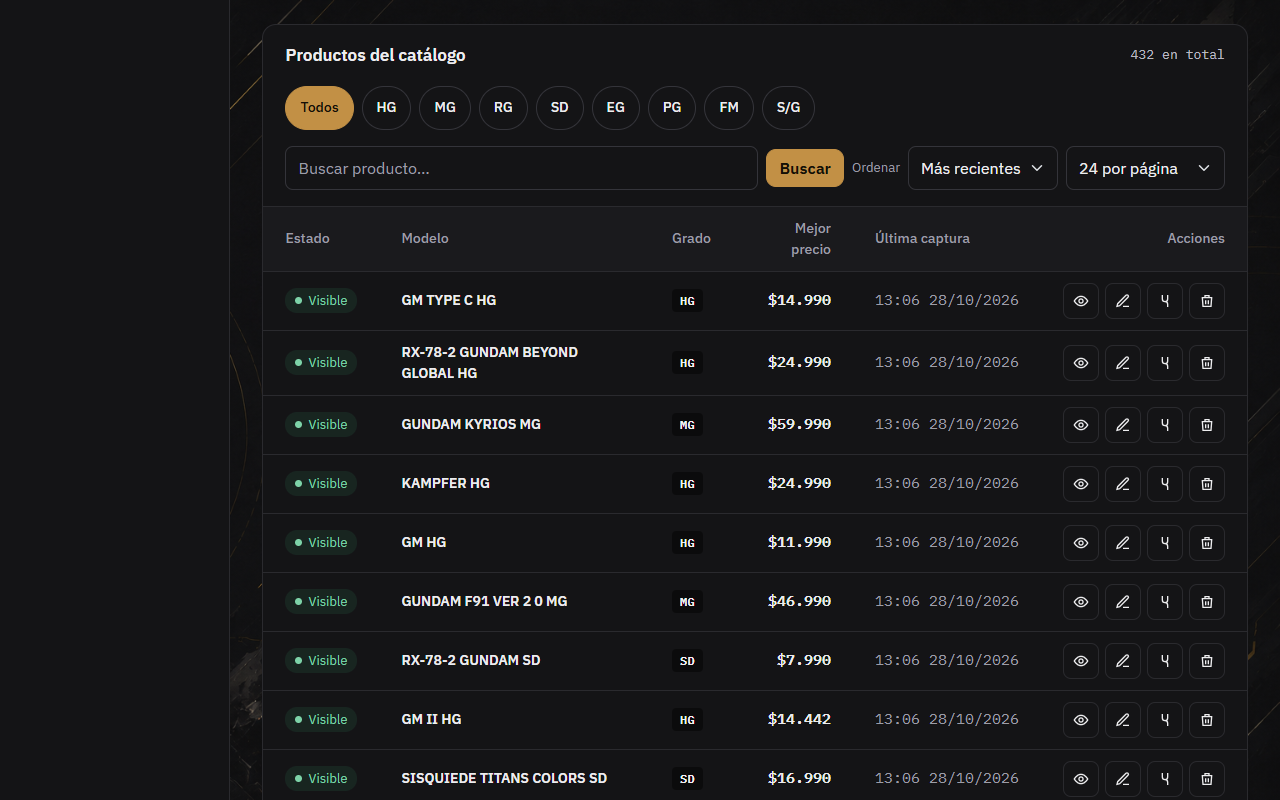
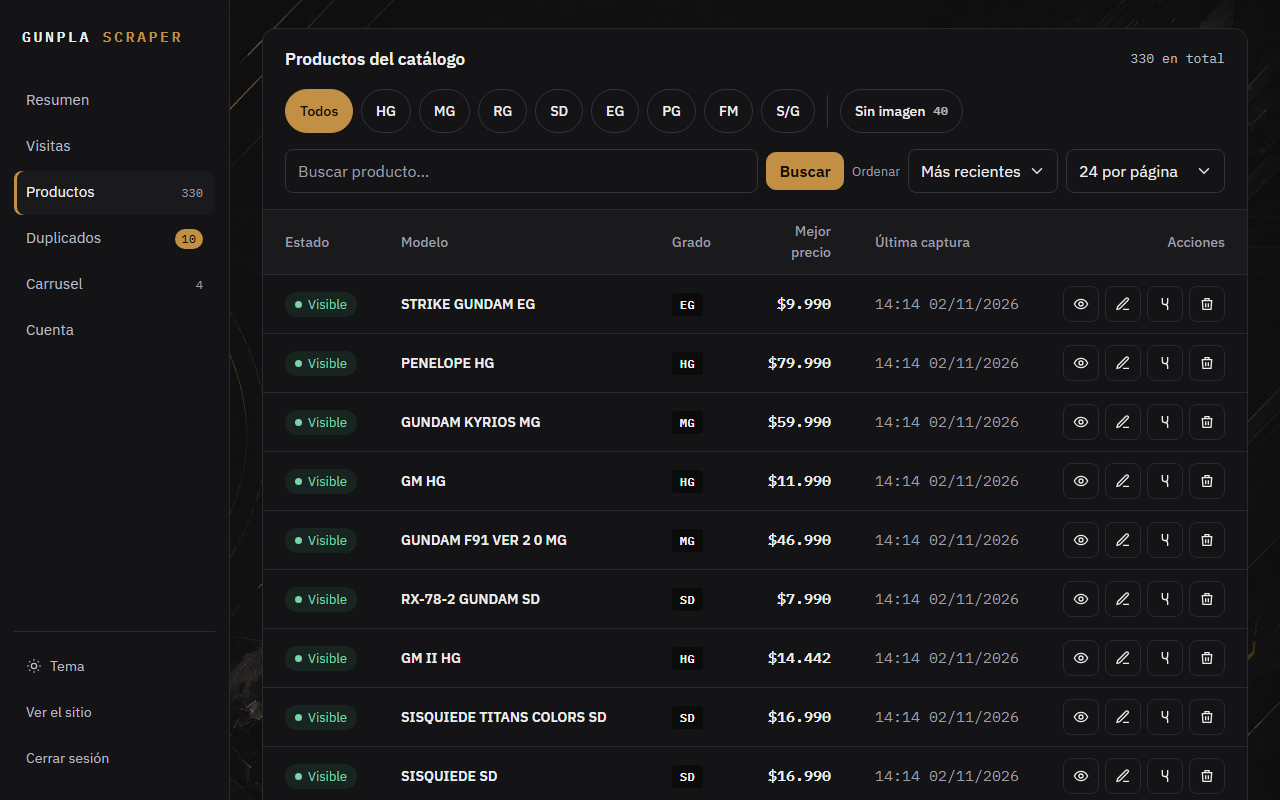
README y manual al día con el panel por pestañas; capturas nuevas del panel y sin el diagrama ER

diff --git a/static/js/producto.js b/static/js/producto.js
@@ -31,7 +31,7 @@ document.addEventListener('DOMContentLoaded', () => {
             maintainAspectRatio: false,
             interaction: { mode: 'index', intersect: false },
             plugins: {
-                legend: { position: 'top', align: 'start', labels: { usePointStyle: true, boxWidth: 8, font: { family: 'IBM Plex Sans' } } },
+                legend: { position: 'top', align: 'start', labels: { usePointStyle: true, pointStyle: 'circle', boxWidth: 8, boxHeight: 8, font: { family: 'IBM Plex Sans' } } },
                 tooltip: { callbacks: { label: (c) => ` ${c.dataset.label}: ${c.raw == null ? 'sin dato' : pesos(c.raw)}` } }
             },
             scales: {

diff --git a/static/js/visitas.js b/static/js/visitas.js
@@ -43,7 +43,7 @@ document.addEventListener('DOMContentLoaded', () => {
             maintainAspectRatio: false,
             interaction: { mode: 'index', intersect: false },
             plugins: {
-                legend: { position: 'top', align: 'start', labels: { usePointStyle: true, boxWidth: 8, font: { family: 'IBM Plex Sans' } } },
+                legend: { position: 'top', align: 'start', labels: { usePointStyle: true, pointStyle: 'circle', boxWidth: 8, boxHeight: 8, font: { family: 'IBM Plex Sans' } } },
                 tooltip: { callbacks: { label: (c) => ` ${c.dataset.label}: ${numero(c.raw)}` } }
             },
             scales: {

diff --git a/static/js/admin.js b/static/js/admin.js
@@ -17,6 +17,8 @@
     };
     window.addEventListener('hashchange', mostrar);
     mostrar();
+    // El navegador salta al #ancla por su cuenta al terminar de cargar: se vuelve a ajustar después de ese salto
+    window.addEventListener('load', () => setTimeout(mostrar));
 })();
 
 document.addEventListener('DOMContentLoaded', () => {

diff --git a/README.md b/README.md
@@ -34,31 +34,37 @@ Es una aplicación web en **Flask** con su propia base **SQLite**: no depende de
 
 ### Panel de administración
 
+El menú lateral muestra una sección a la vez y cada acción vuelve a la pestaña donde se hizo.
+
 <p align="center">
   <img src="docs/capturas/admin_login.png" width="420" alt="Pantalla de acceso al panel con la mascota del proyecto">
-  <img src="docs/capturas/admin_resumen.png" width="420" alt="Portada del panel: mascota, estado general, botones de escaneo, Excel y respaldo, y cifras del sitio">
+  <img src="docs/capturas/admin_resumen.png" width="420" alt="Resumen del panel: cifras del sitio, pendientes con acceso directo, visitas de la semana, vista previa del carrusel, estado de las tiendas y eventos">
 </p>
 <p align="center">
-  <img src="docs/capturas/admin_tiendas.png" width="420" alt="Estado de cada tienda, posibles duplicados, carrusel y eventos recientes">
-  <img src="docs/capturas/admin_carrusel.png" width="420" alt="Gestión del carrusel del inicio y registro de eventos">
+  <img src="docs/capturas/admin_visitas.png" width="420" alt="Gráfico de visitas y páginas vistas con filtros de período y agrupación, y totales de visitas, personas únicas y páginas vistas">
+  <img src="docs/capturas/admin.png" width="420" alt="Listado de productos del panel con filtros por grado y sin imagen, estado, mejor precio, última captura y acciones">
 </p>
 <p align="center">
-  <img src="docs/capturas/admin.png" width="420" alt="Listado de productos del panel con estado, mejor precio, última captura y acciones">
   <img src="docs/capturas/admin_fusion.png" width="420" alt="Ventana para fusionar un producto duplicado con el principal">
+  <img src="docs/capturas/admin_duplicados.png" width="420" alt="Posibles duplicados con su porcentaje de parecido y los botones para conservar uno o descartarlos">
 </p>
 <p align="center">
+  <img src="docs/capturas/admin_carrusel.png" width="420" alt="Carrusel del inicio con la posición de cada imagen, flechas para reordenarlas, enlace y subida de imágenes nuevas">
   <img src="docs/capturas/admin_editar.png" width="420" alt="Edición del nombre, grado e imagen de un modelo del catálogo">
 </p>
 
-- **Acceso:** usuario y contraseña. Al cambiarlos desde el panel, la contraseña se guarda como hash.
-- **Pestañas:** el menú lateral muestra una sección a la vez (Resumen, Visitas, Productos, Duplicados, Carrusel y Cuenta), y cada acción vuelve a su pestaña.
-- **Resumen:** visitas del mes, productos en catálogo, visibles con stock y último escaneo, con los botones para forzar un escaneo, exportar a Excel y descargar un respaldo de la base. Avisa si el último escaneo exitoso tiene más de 48 horas.
-- **Estado de las tiendas:** último escaneo exitoso, productos y último error de cada tienda; marca para revisar las que llevan más de 48 horas sin un escaneo exitoso o fallaron en el último intento.
-- **Posibles duplicados:** pares del mismo grado con nombres casi iguales, para fusionarlos o marcarlos como distintos.
-- **Carrusel:** imágenes del inicio con su enlace, en el orden que se elige con las flechas de cada una.
-- **Eventos:** registro de las últimas acciones y escaneos, junto al estado de las tiendas.
-- **Productos:** ordenados por estado (Visibles → No disponibles → Ocultos), con acciones para ocultar, editar, eliminar y fusionar.
+- **Acceso:** usuario y contraseña, con límite de intentos fallidos por IP y sesión que vence a las 8 horas sin uso. Al cambiarlos desde el panel, la contraseña se guarda como hash.
+- **Resumen:** visitas del mes, productos en catálogo, visibles con stock y último escaneo, con los botones para forzar un escaneo, exportar a Excel y descargar un respaldo de la base. Debajo:
+  - **Pendientes:** tiendas por revisar, posibles duplicados y productos sin imagen, cada uno con acceso directo a donde se resuelve.
+  - **Visitas:** los últimos 7 días comparados con los 7 anteriores y la tendencia de las últimas dos semanas.
+  - **Carrusel:** vista previa de las imágenes del inicio en su orden.
+  - **Estado de las tiendas:** último escaneo exitoso, productos y último error de cada tienda. Marca para revisar las que llevan más de 48 horas sin un escaneo exitoso o fallaron en el último intento.
+  - **Eventos recientes:** las últimas acciones del panel, escaneos, inicios de sesión y respaldos.
+- **Visitas:** gráfico de visitas y páginas vistas por día, semana o mes, con períodos de 7 días a todo el historial, y los totales de visitas, personas únicas y páginas vistas. No cuenta bots ni al administrador.
+- **Productos:** búsqueda, filtro por grado o sin imagen, orden y paginación. Ordenados por estado (Visibles → No disponibles → Ocultos), con acciones para ocultar, editar, eliminar y fusionar.
 - **Fusión:** pasa las tiendas y el historial de un duplicado al producto principal.
+- **Duplicados:** pares del mismo grado con nombres casi iguales, para fusionarlos o marcarlos como distintos.
+- **Carrusel:** imágenes del inicio con su enlace, en el orden que se elige con las flechas de cada una.
 - **Edición:** nombre estandarizado, grado e imagen de cada modelo.
 - **Cuenta:** cambio de usuario y contraseña del panel.
 
@@ -227,7 +233,6 @@ docs/
 ├── MANUAL-DESARROLLADOR.md  Arquitectura, flujos, seguridad, pruebas y operación
 ├── BASE-DE-DATOS.md         Tablas, columnas y procesos que modifican los datos
 ├── SCRAPERS.md              Flujo del scraping, normalización y cómo agregar una tienda
-├── ER_model.png             Diagrama entidad-relación completo
 └── capturas/                Imágenes de este README
 ```
 
@@ -240,4 +245,3 @@ Proyecto con fines educativos y de análisis personal. Los precios pueden no est
 - [Manual del desarrollador](docs/MANUAL-DESARROLLADOR.md): arquitectura, flujos, seguridad, pruebas, operación y cómo extender el proyecto
 - [Base de datos](docs/BASE-DE-DATOS.md)
 - [Scrapers](docs/SCRAPERS.md)
-- [Diagrama entidad-relación](docs/ER_model.png)

diff --git a/docs/MANUAL-DESARROLLADOR.md b/docs/MANUAL-DESARROLLADOR.md
@@ -35,7 +35,7 @@ Este manual explica cómo está construido el sistema, por qué se tomaron sus d
 Gunpla Scraper Chile recorre dos veces al día el catálogo de 8 tiendas chilenas, normaliza los nombres de los productos para agrupar las publicaciones de un mismo kit y guarda cada precio observado. Con eso ofrece:
 
 - **Sitio público:** catálogo con filtros, ficha por producto con el mejor precio del día, comparación entre tiendas, historial en gráfico y etiquetas de mínimo histórico y bajas recientes.
-- **Panel de administración:** estado de cada tienda, sugerencia y fusión de duplicados, edición del catálogo, imágenes, carrusel, exportación a Excel y respaldo de la base.
+- **Panel de administración:** organizado en pestañas (Resumen, Visitas, Productos, Duplicados, Carrusel y Cuenta): estado de cada tienda, pendientes, visitas sin bots, sugerencia y fusión de duplicados, edición del catálogo, imágenes, orden del carrusel, exportación a Excel y respaldo de la base.
 
 Funciona como **un solo proceso** sin servicios externos: Flask sirve el sitio, APScheduler programa los escaneos y los respaldos, y SQLite guarda todo en un archivo. Todo lo que ve el navegador (estilos, fuentes, librerías) se sirve desde el propio sitio.
 
@@ -249,7 +249,7 @@ static/
 ├── productos/             Imágenes descargadas (fuera de git, se regeneran)
 └── carrusel/              Imágenes subidas desde el panel
 tests/                     Pruebas unittest, páginas reales de tiendas y resultados de referencia
-docs/                      Este manual, base de datos, scrapers, diagrama ER y capturas
+docs/                      Este manual, base de datos, scrapers y capturas
 ```
 
 ---
@@ -316,8 +316,11 @@ sequenceDiagram
     U->>P: GET con filtros (q_admin, grado_admin, sin_imagen…)
     P-->>U: Panel
     U->>P: POST acción (editar, fusionar…) + token
-    P-->>U: 302 al panel con los mismos filtros
+    P-->>U: 302 al panel con los mismos filtros y en la misma pestaña
 ```
+
+- **Pestañas:** el panel es una sola página; cada opción del menú es un `#ancla` y `admin.js` muestra solo la `.vista-panel` que la contiene (`#tiendas` abre Resumen). Sin JavaScript se ven todas seguidas. Las redirecciones de cada acción terminan en el ancla de su pestaña (`#productos`, `#duplicados`, `#carrusel`, `#cuenta`).
+- **Resumen:** cifras del sitio, pendientes con acceso directo (tiendas por revisar, duplicados, productos sin imagen), visitas de la semana (`visitas.vistazo()`), vista previa del carrusel, estado de las tiendas y eventos.
 
 - Todas las rutas del panel usan el decorador `login_required`.
 - Toda acción que modifica datos es POST y lleva el token CSRF. El escaneo forzado lo envía en la cabecera `X-CSRF-Token`.
@@ -327,7 +330,7 @@ sequenceDiagram
 
 ## 8. Modelo de datos
 
-Nueve tablas en SQLite. El detalle de columnas y procesos está en [BASE-DE-DATOS.md](BASE-DE-DATOS.md) y el diagrama completo en [ER_model.png](ER_model.png).
+Nueve tablas en SQLite. El detalle de columnas y procesos está en [BASE-DE-DATOS.md](BASE-DE-DATOS.md) con el diagrama de relaciones.
 
 ```mermaid
 erDiagram
@@ -371,7 +374,7 @@ Prácticas de la capa de datos:
 | Método | Ruta | Descripción |
 |---|---|---|
 | GET, POST | `/admin` | Acceso (público); bloqueo de 15 min tras 5 intentos fallidos por IP |
-| GET | `/admin/panel` | Panel completo (`q_admin`, `grado_admin`, `sort_admin`, `page`, `per_page`, `sin_imagen`) |
+| GET | `/admin/panel` | Panel con todas sus pestañas (`q_admin`, `grado_admin`, `sort_admin`, `page`, `per_page`, `sin_imagen`) |
 | POST | `/admin/force-update` | Lanza un escaneo en segundo plano |
 | GET | `/admin/force-update/estado` | Estado del escaneo en curso (JSON) |
 | GET | `/admin/backup` | Descarga una copia consistente de la base |
@@ -553,6 +556,8 @@ El panel es la consola de operación:
 - **Alerta general** si el último escaneo exitoso tiene más de 48 horas.
 - **Estado de las tiendas:** último éxito, productos y último error. "Revisar" indica un fallo o un escaneo incompleto, con el motivo.
 - **Eventos recientes:** cada escaneo, acción del panel, inicio de sesión (exitoso o fallido) y respaldo queda en la tabla `logs`.
+- **Pendientes** en el Resumen: lo que requiere acción, con acceso directo a su pestaña.
+- **Visitas:** pestaña con el gráfico y los totales; el Resumen muestra la semana frente a la anterior.
 
 ### 13.3 Respaldos y restauración
 
@@ -598,8 +603,8 @@ Resumen; el detalle está en [SCRAPERS.md](SCRAPERS.md#agregar-una-tienda).
 ### 14.3 Agregar una acción al panel
 
 1. Lógica y SQL en `core/` (si escribe en varias tablas, dentro de `transaccion()`).
-2. Ruta POST en `routes/admin/admin.py` con `@login_required`, que termine en `volver_al_panel(request.form)`.
-3. Formulario con `{{ campo_csrf() }}`. Si pide confirmación, agregar `data-confirmar="¿…?"`.
+2. Ruta POST en `routes/admin/admin.py` con `@login_required`, que termine en `volver_al_panel(request.form, '<pestaña>')` o en una redirección al `#ancla` de su pestaña.
+3. Formulario con `{{ campo_csrf() }}` dentro del parcial de su pestaña (`templates/admin/panel/`). Si pide confirmación, agregar `data-confirmar="¿…?"`. Una sección nueva va en su propio `<div class="vista-panel" data-vista="…">` de `admin_panel.html`, con su enlace en el menú lateral.
 4. Prueba en `test_regresiones.py` usando `PanelTemporal`.
 
 ### 14.4 Cambiar el esquema de la base

diff --git a/docs/BASE-DE-DATOS.md b/docs/BASE-DE-DATOS.md
@@ -2,8 +2,6 @@
 
 SQLite en un solo archivo, `precios_comunidad.db` (nombre definido en `config.py`). Las 9 tablas se crean al iniciar la app con `init_db()` en `core/database.py`, solo si no existen. Las claves foráneas están activas en cada conexión (`PRAGMA foreign_keys = ON`).
 
-Diagrama entidad-relación completo: [ER_model.png](ER_model.png).
-
 ## Diagrama
 
 ```mermaid
